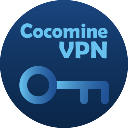
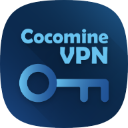
更換圖標

diff --git a/src/index.tsx b/src/index.tsx
@@ -4,7 +4,7 @@ import './index.scss';
 import App from './App';
 import reportWebVitals from './reportWebVitals';
 
-const APP_VERSION = "0.2.1";
+const APP_VERSION = "0.2.2";
 
 const root = ReactDOM.createRoot(document.getElementById('root') as HTMLElement);
 root.render(
